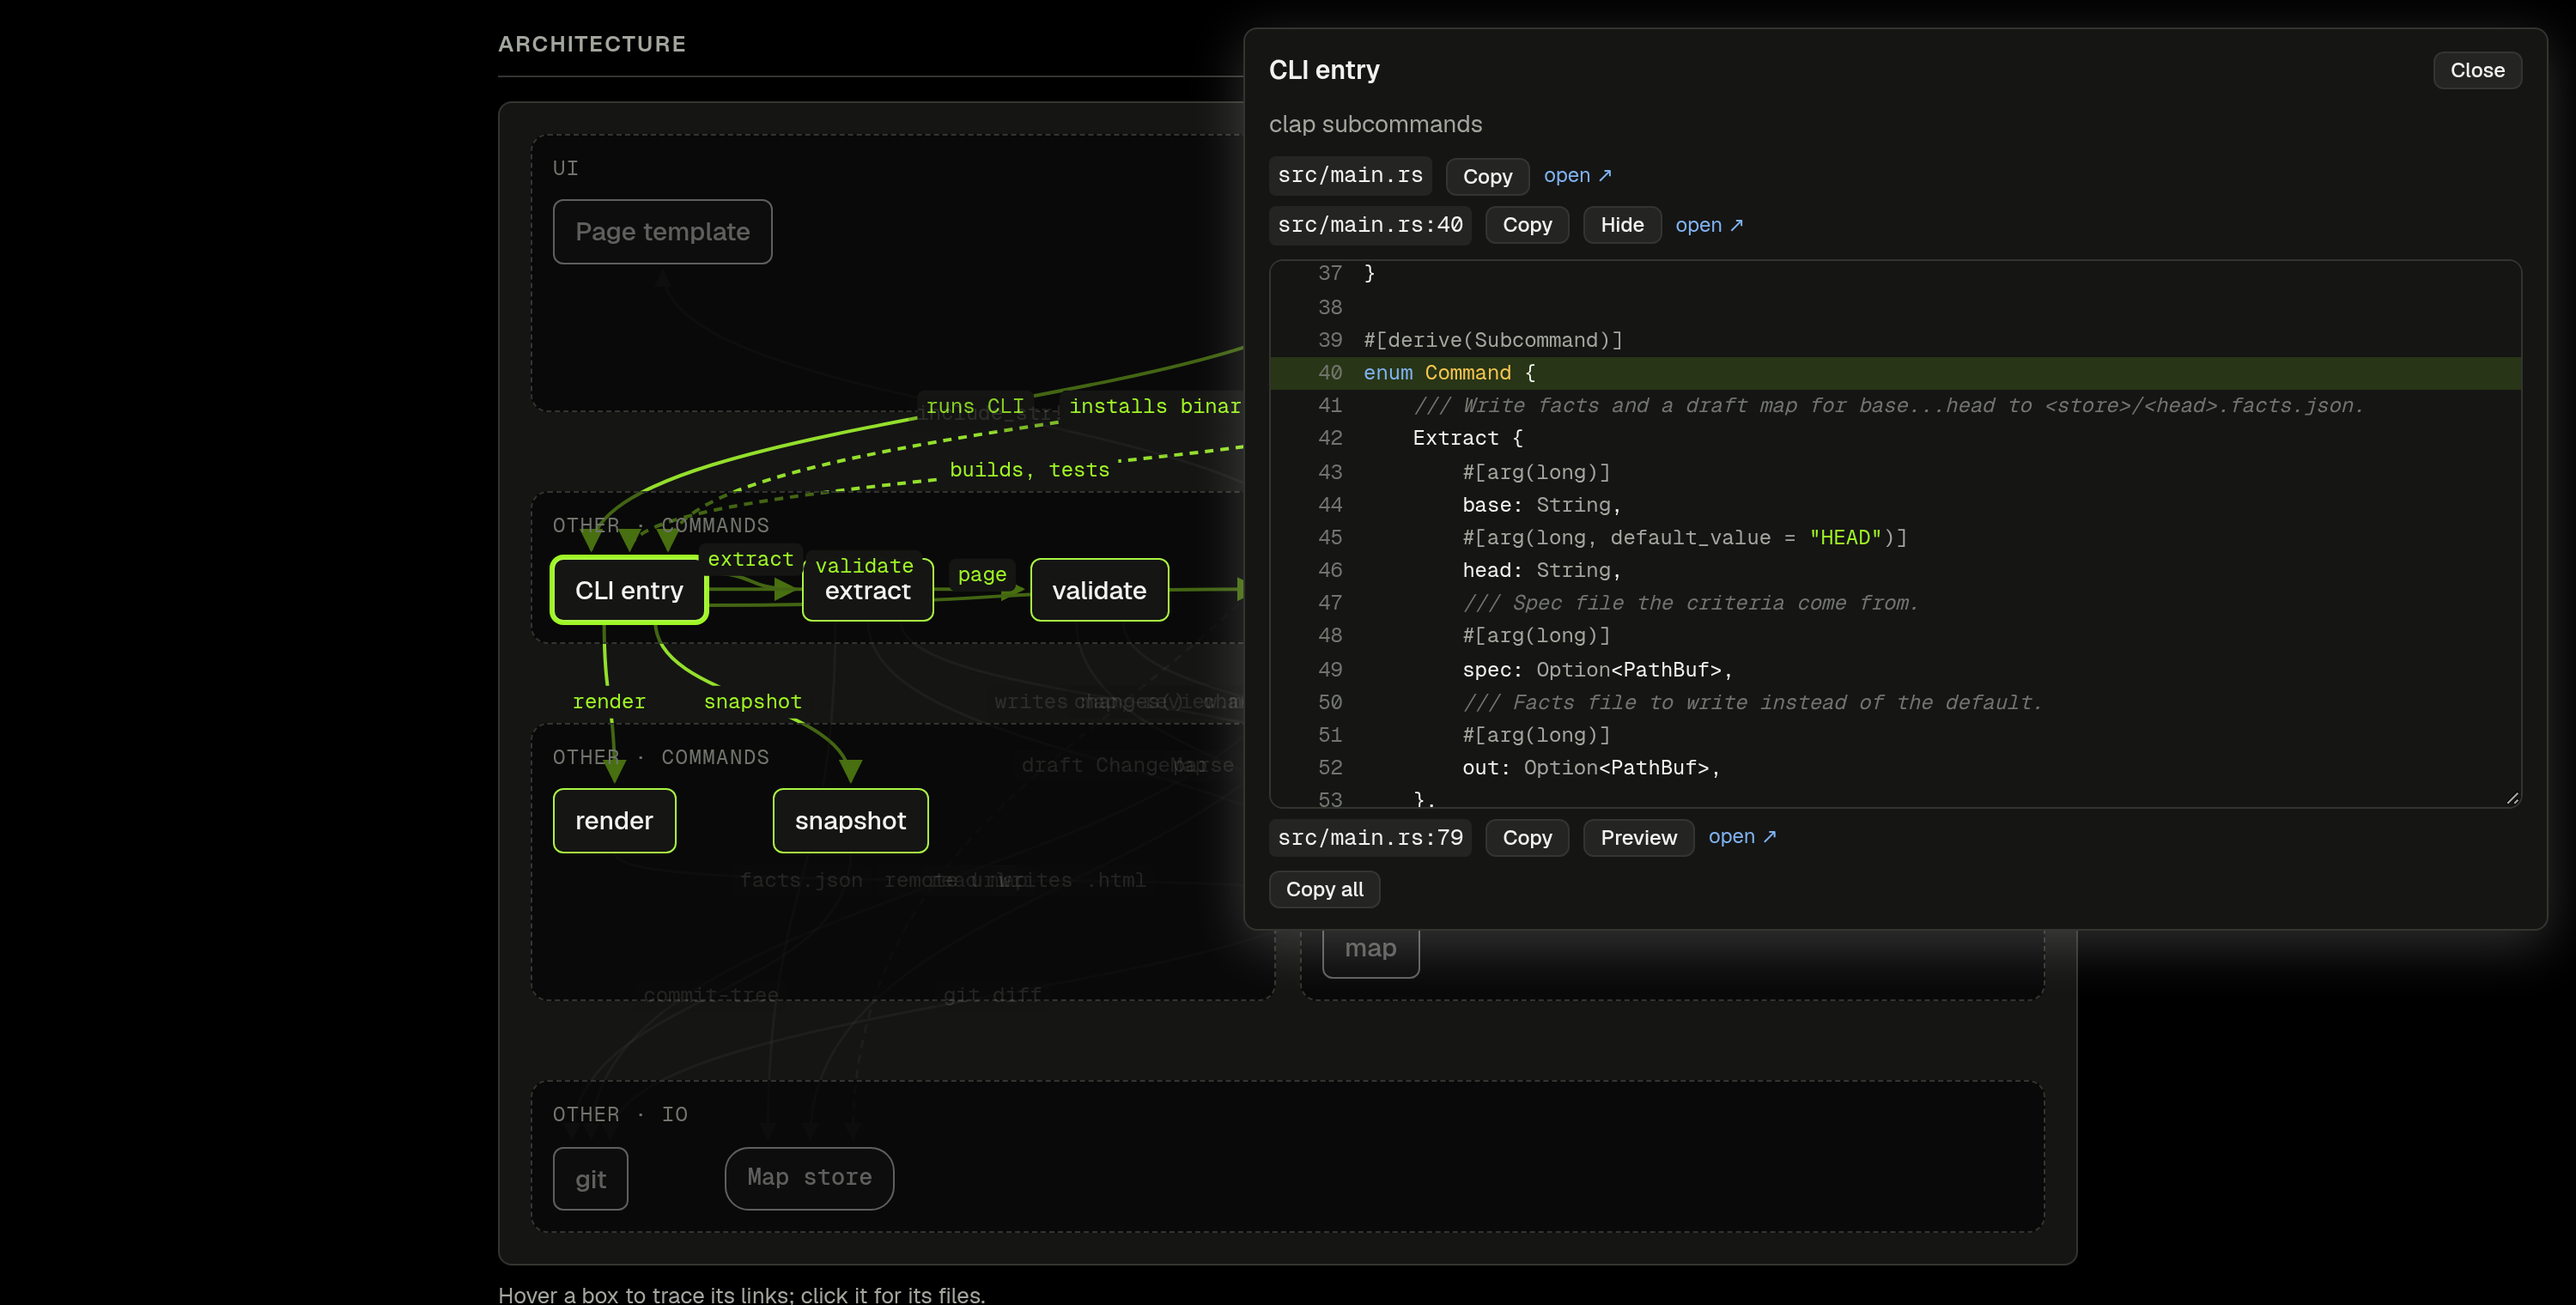
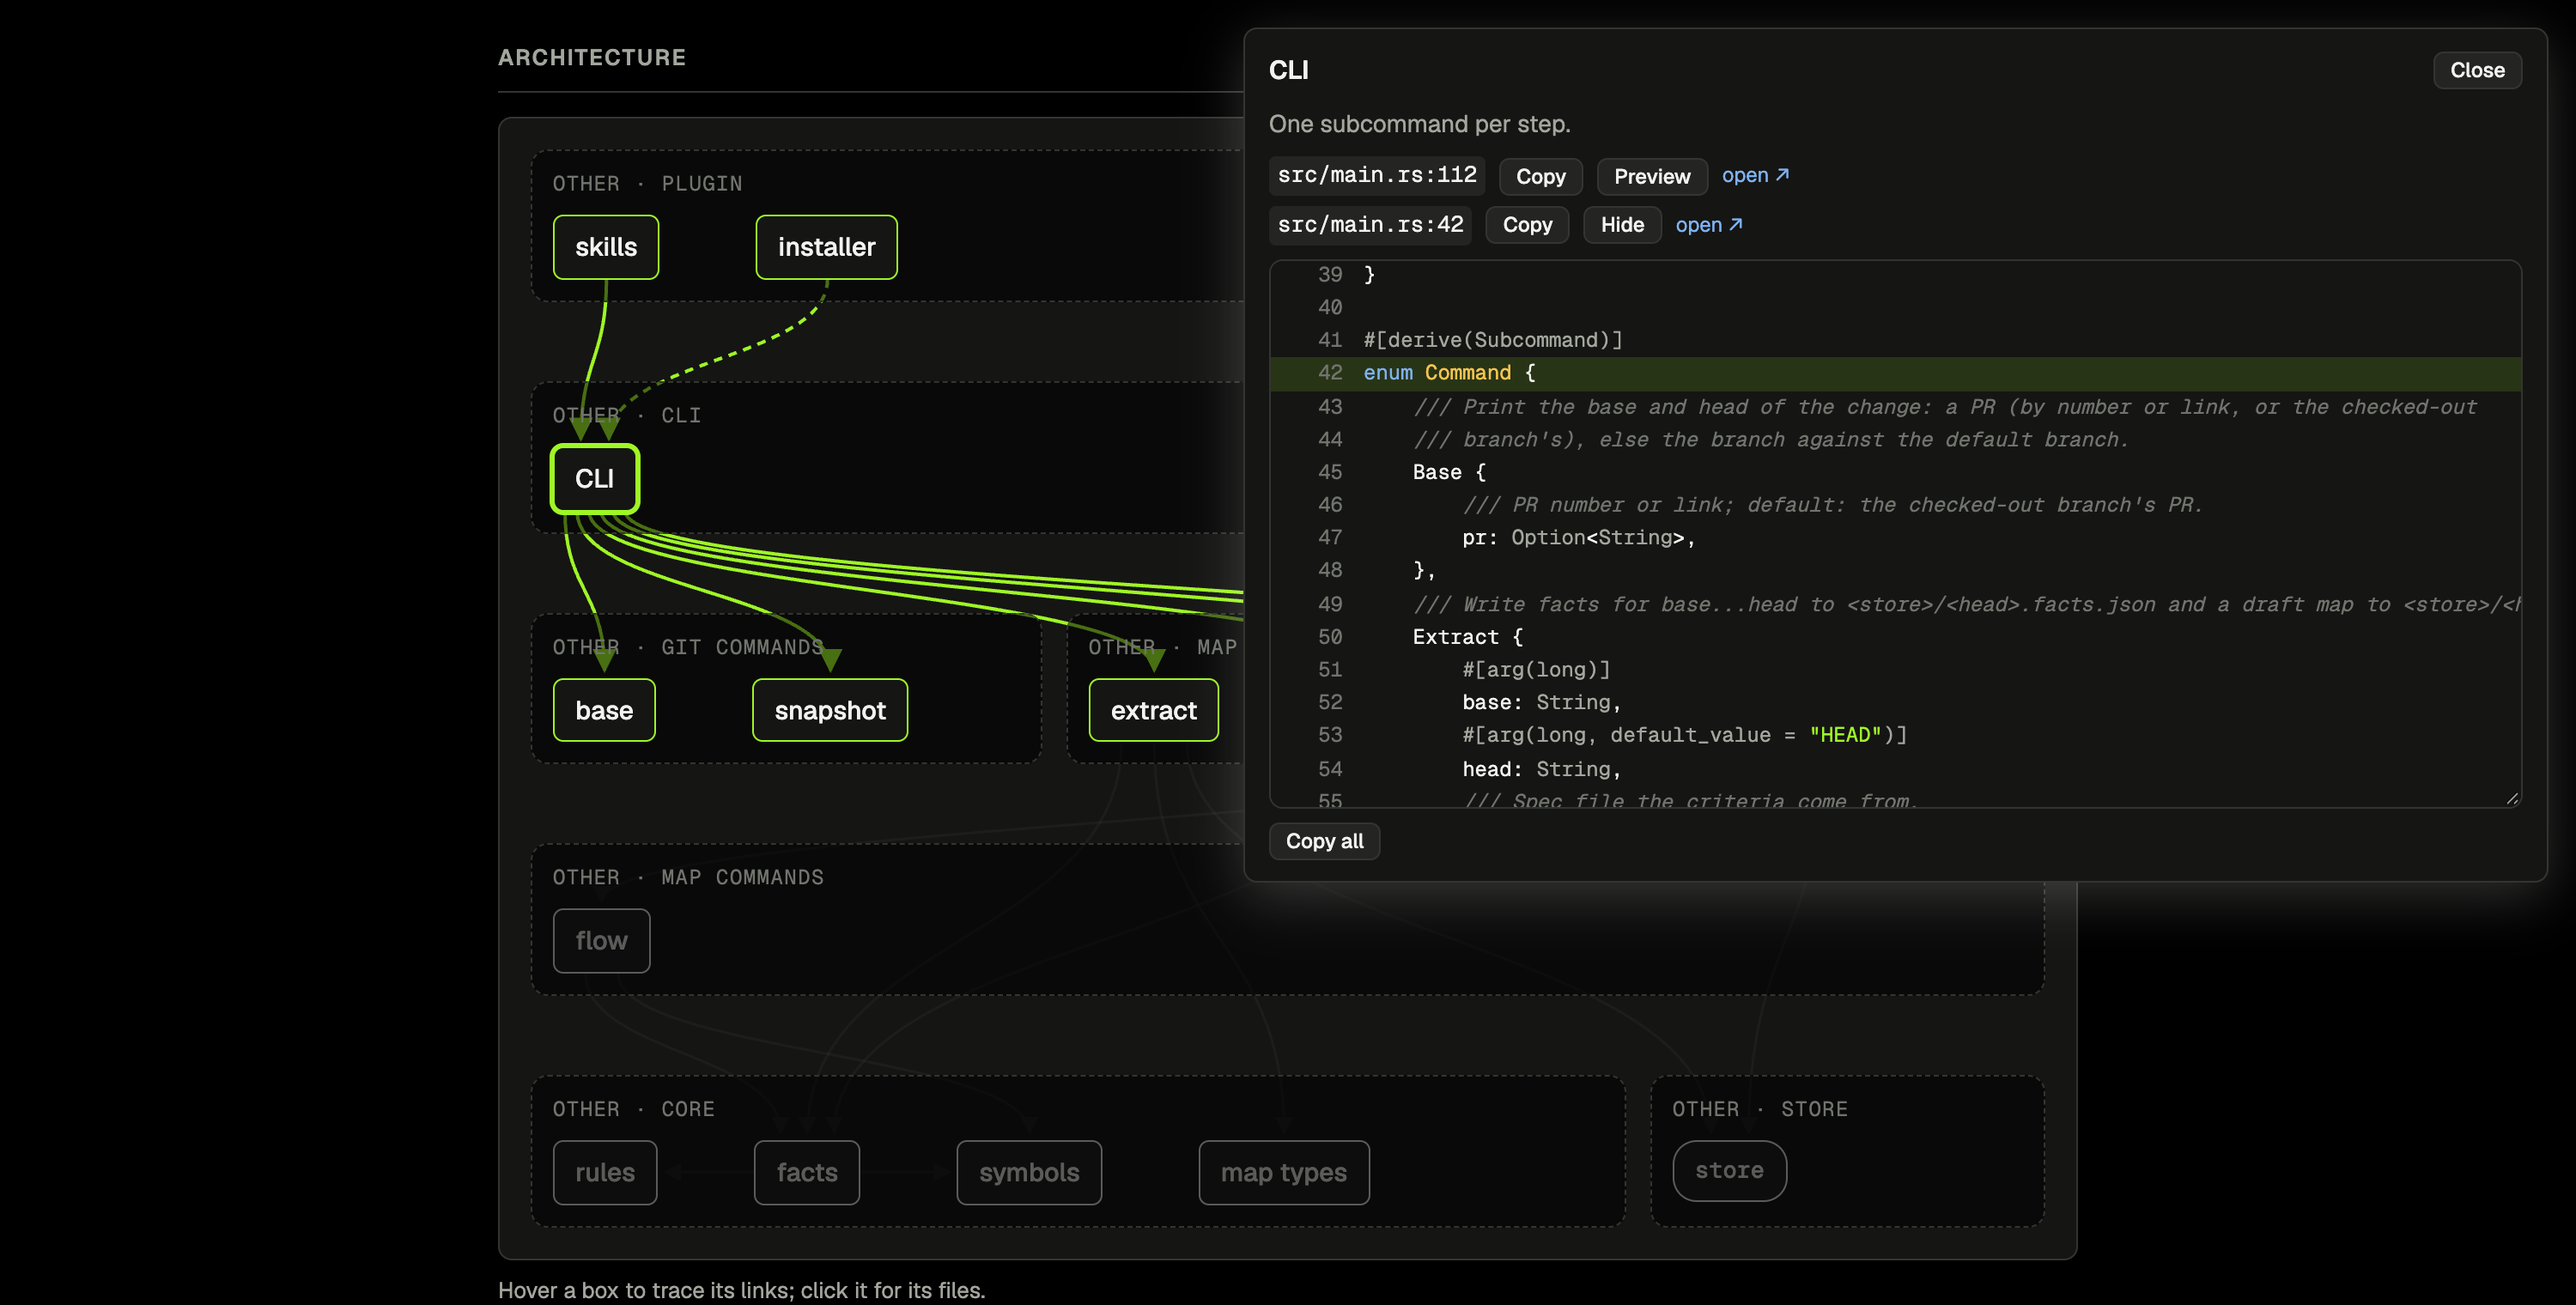
docs: retake the side panel screenshots without arrow labels

diff --git a/README.md b/README.md
@@ -64,7 +64,7 @@ Click a box to open its side panel with the box's note and the files to copy, pr
 
 | Dark | Light |
 | --- | --- |
-| ![The side panel for the CLI entry box in dark mode, with src/main.rs:40 previewed inline and line 40 highlighted](docs/images/architecture-side-panel-dark.png) | ![The same side panel in light mode](docs/images/architecture-side-panel-light.png) |
+| ![The side panel for the CLI box in dark mode, with src/main.rs:42 previewed inline and line 42 highlighted](docs/images/architecture-side-panel-dark.png) | ![The same side panel in light mode](docs/images/architecture-side-panel-light.png) |
 
 Every `path:line` in the text has a Preview button too. It opens the whole file in a panel you can move and resize, with syntax colors and the cited lines highlighted:
 
